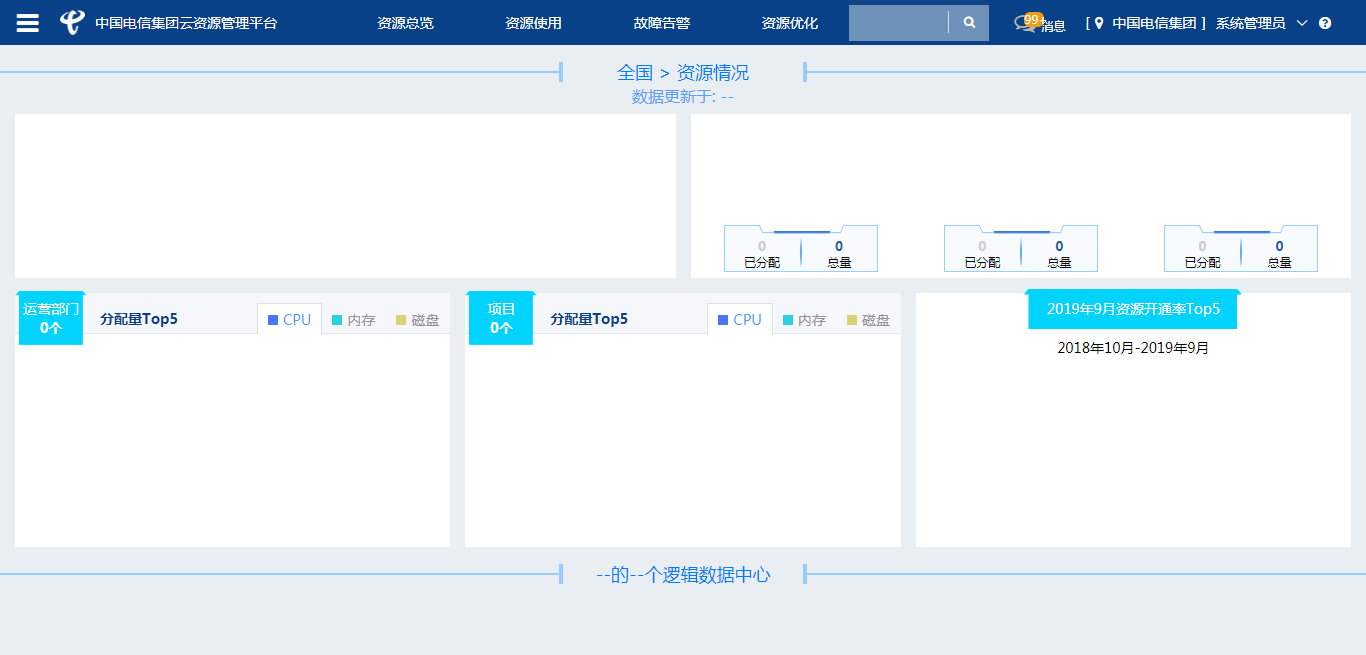
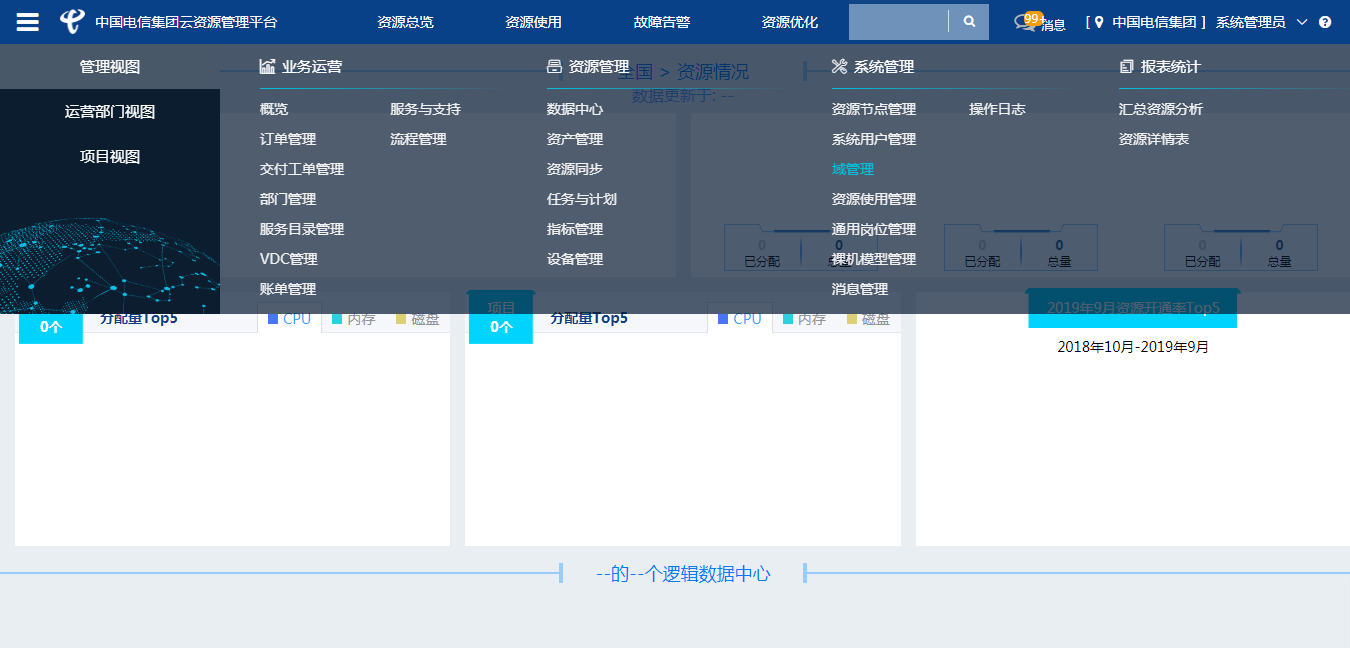
Updates 域管理.md
Auto commit by GitBook Editor

diff --git a/域管理.md b/域管理.md
@@ -7,7 +7,7 @@
 #### 2.2.1.2:操作步骤
 1. 用户进入系统主页面-选择菜单-管理视图-系统管理-域管理
     如下图：
-
+![](/assets/toregionmanage.png)
 2. 进入域管理页面
 
 ***
